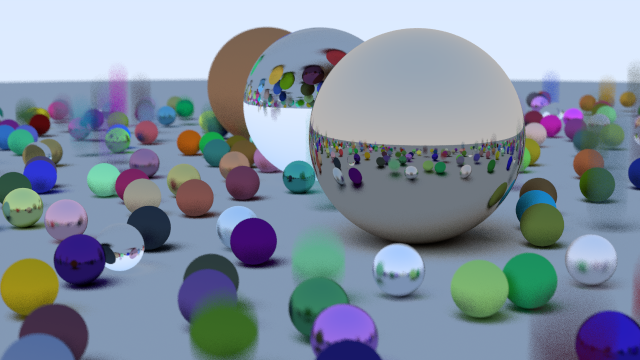
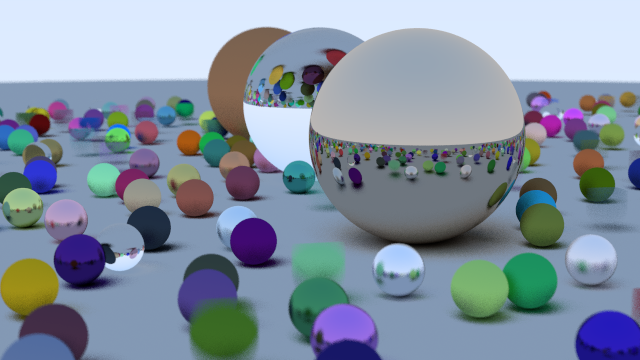
Complete BVH

diff --git a/lib/src/hit.cpp b/lib/src/hit.cpp
@@ -1,5 +1,6 @@
 #include<hit.h>
 #include<cmath>
+#include<algorithm>
 
 using namespace std;
 
@@ -70,6 +71,7 @@ bool movingsphereobj::boundingBox(double time0, double time1, aabb& outputbox) c
 	aabb aabb0 = aabb(this->center(time0) - vector3(this->radius, this->radius, this->radius), this->center(time0) + vector3(this->radius, this->radius, this->radius));
 	aabb aabb1 = aabb(this->center(time1) - vector3(this->radius, this->radius, this->radius), this->center(time1) + vector3(this->radius, this->radius, this->radius));
 	outputbox = aabb0;
+	return true;
 }
 
 void hit_list::add(shared_ptr<hitobj> obj) {
@@ -108,8 +110,77 @@ bool hit_list::boundingBox(double time0, double time1, aabb& outputbox) const {
 		}
 		outputbox = firstBox ? tempBox : surroundingBox(outputbox, tempBox);
 	}
+	return true;
 }
 
-bvhnode::bvhnode(const std::vector<std::shared_ptr<hitobj>>& srcObjects, size_t start, size_t end, double time0, double time1) {
-	
+bool boxCompare(const shared_ptr<hitobj> a, const shared_ptr<hitobj> b, int axis) {
+	aabb boxA, boxB;
+
+	if (!a->boundingBox(0, 0, boxA) || !b->boundingBox(0,0, boxB)) {
+		std::cerr << "No bounding box in bvh_node constructor.\n";
+	}
+
+	return boxA.min()[axis] < boxB.min()[axis];
+}
+
+bool boxCompareX(const shared_ptr<hitobj> a, const shared_ptr<hitobj> b) {
+	return boxCompare(a, b, 0);
+}
+
+bool boxCompareY(const shared_ptr<hitobj> a, const shared_ptr<hitobj> b) {
+	return boxCompare(a, b, 1);
+}
+
+bool boxCompareZ(const shared_ptr<hitobj> a, const shared_ptr<hitobj> b) {
+	return boxCompare(a, b, 2);
+}
+
+bvhnode::bvhnode(const vector<shared_ptr<hitobj>>& srcObjects, size_t start, size_t end, double time0, double time1) {
+	vector<shared_ptr<hitobj>> objects = srcObjects;
+
+	int axis = random_int(0, 2);
+
+	auto comparator = axis == 0 ? boxCompareX : axis == 1 ? boxCompareY : boxCompareZ;
+
+	size_t objectSpan = end - start;
+
+	if(objectSpan == 1) {
+		this->left = this->right = objects[start];
+	} else if(objectSpan == 2) {
+		if(comparator(objects[start], objects[start + 1])) {
+			this->left = objects[start];
+			this->right = objects[start + 1];
+		} else {
+			this->left = objects[start + 1];	
+			this->right = objects[start];
+		}
+	} else {
+		std::sort(objects.begin() + start, objects.begin() + end, comparator);
+
+		size_t mid = start + objectSpan / 2;
+		this->left = make_shared<bvhnode>(objects, start, mid, time0, time1);
+		this->right = make_shared<bvhnode>(objects, mid, end, time0, time1);
+	}
+	aabb boxA, boxB;
+
+	if (!this->left->boundingBox(time0, time1, boxA) || !this->right->boundingBox(time0, time1, boxB)) {
+		std::cerr << "No bounding box in bvh_node constructor.\n";
+	}
+
+	box = surroundingBox(boxA, boxB);
+}
+
+bool bvhnode::hit(const ray& r, double t_min, double t_max, hit_record& rec) const {
+	if(!this->box.hit(r, t_min, t_max)) {
+		return false;
+	}
+	bool hitLeft = this->left->hit(r, t_min, t_max, rec);
+	bool hitRight = this->right->hit(r, t_min, hitLeft ? rec.t : t_max, rec);
+
+	return hitLeft || hitRight;
+}
+
+bool bvhnode::boundingBox(double time0, double time1, aabb& outputbox) const {
+	outputbox = this->box;
+	return true;
 }

diff --git a/include/hit.h b/include/hit.h
@@ -63,13 +63,15 @@ public:
 
 class bvhnode : public hitobj {
 private:
-	shared_ptr<hitobj> left;
-	shared_ptr<hitobj> right;
+	std::shared_ptr<hitobj> left;
+	std::shared_ptr<hitobj> right;
 	aabb box;
 public:
 	bvhnode() {}
 	bvhnode(const hit_list& list, double time0, double time1) : bvhnode(list.objs, 0, list.objs.size(), time0, time1) {}
 	bvhnode(const std::vector<std::shared_ptr<hitobj>>& srcObjects, size_t start, size_t end, double time0, double time1);
+	virtual bool hit(const ray& r, double t_min, double t_max, hit_record& rec) const override;
+	virtual bool boundingBox(double time0, double time1, aabb& outputbox) const override;
 };
 
 #endif

diff --git a/src/15_BVH/image.cpp b/src/15_BVH/image.cpp
@@ -72,7 +72,12 @@ hit_list generateScene() {
 	shared_ptr<material> mat3 = make_shared<metal>(color(0.7, 0.6, 0.5), 0.0);
 	world.add(make_shared<sphereobj>(point(4, 1, 0), mat3, 1.0));
 
-	return world;
+	shared_ptr<bvhnode> rootNode = make_shared<bvhnode>(world, 0, 0);	
+
+	hit_list bvh;
+	bvh.add(rootNode);
+
+	return bvh;
 }
 
 int main(void) {

diff --git a/lib/src/vector3.cpp b/lib/src/vector3.cpp
@@ -158,6 +158,10 @@ double random_double(double min, double max) {
 	return distribution(generator);
 }
 
+int random_int(int min, int max) {
+	return static_cast<int>(random_double(min, max + 1));
+}
+
 vector3 vector3::random(double min, double max) {
 	return vector3(random_double(min, max), random_double(min, max), random_double(min, max));
 }

diff --git a/include/aabb.h b/include/aabb.h
@@ -13,7 +13,7 @@ public:
 	aabb(point min, point max): minimum(min), maximum(max) {}
 	point min() { return minimum; }
 	point max() { return maximum; }
-	bool hit(ray &r, double t_min, double t_max);
+	bool hit(const ray &r, double t_min, double t_max) const;
 };
 
 aabb surroundingBox(aabb box0, aabb box1);

diff --git a/lib/src/aabb.cpp b/lib/src/aabb.cpp
@@ -2,7 +2,7 @@
 #include<vector3.h>
 #include<cmath>
 
-bool aabb::hit(ray& r, double t_min, double t_max) {
+bool aabb::hit(const ray& r, double t_min, double t_max) const {
 	for(int i = 0; i < 3; i++) {
 		double invD = 1.0 / r.direction()[i];
 		double t0 = (minimum[i] - r.origin()[i]) * invD;

diff --git a/include/vector3.h b/include/vector3.h
@@ -52,6 +52,7 @@ public:
 };
 
 double random_double(double min = 0.0, double max = 1.0);
+int random_int(int min = 0, int max = 1);
 vector3 random_in_unit_disk();
 vector3 random_in_unit_sphere();
 vector3 random_on_unit_sphere();
